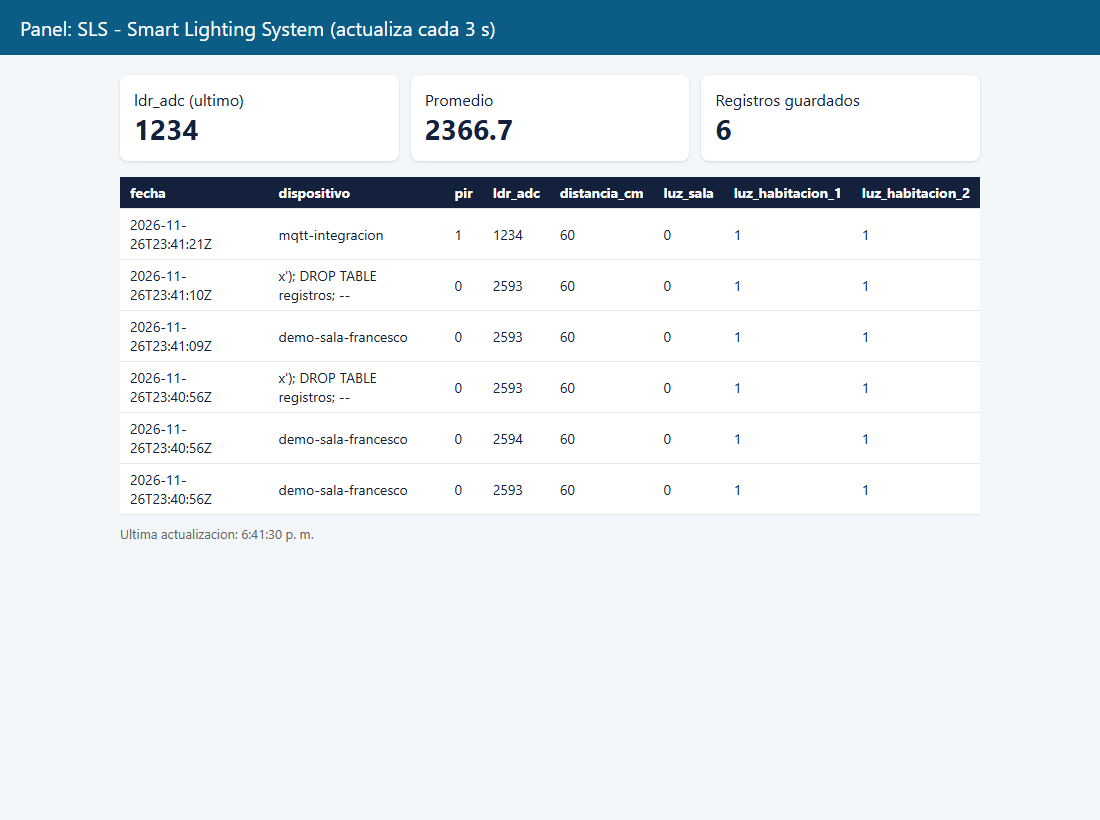
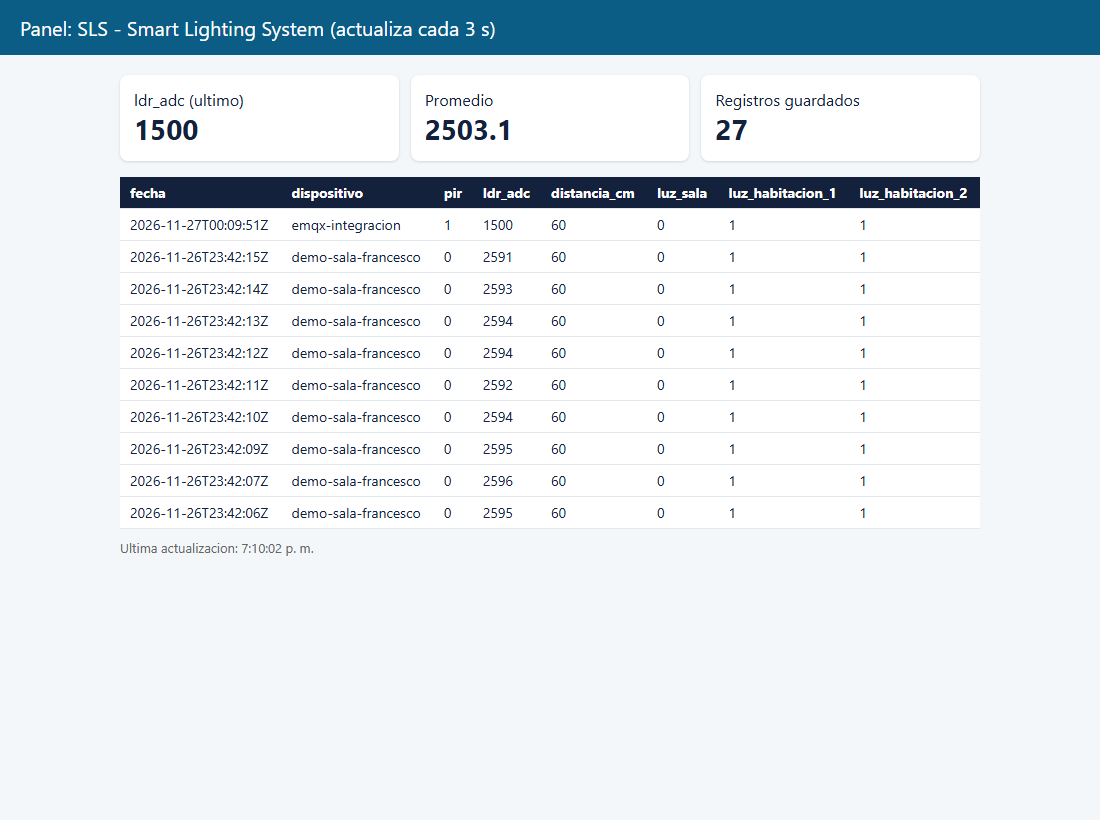
docs(informe): actualiza las pruebas MQTT con EMQX

diff --git a/lab_persistencia_api/informe_lab.md b/lab_persistencia_api/informe_lab.md
@@ -102,7 +102,15 @@ En `definicion_columna` usamos `"minimo" in c` en lugar de `c.get("minimo")` por
 
 ### 3.1 Parte D — Pruebas de persistencia
 
-Corrimos el ingestor y publicamos cada mensaje con `publicar_prueba.py`, un publicador que escribimos para reemplazar a `mosquitto_pub`. Cada mensaje de datos es el `EJEMPLO` completo y solo cambia el campo probado. Los datos van a `utp/ds8/<GRUPO>/sls-smart-lighting/telemetria` y los estados a `.../estado`. La prueba se hizo el 26-11-2026 contra un **Mosquitto local** y no contra el broker del curso (ver la sección 8).
+Corrimos el ingestor y publicamos cada mensaje con `publicar_prueba.py`, un publicador que escribimos para reemplazar a `mosquitto_pub`. Cada mensaje de datos es el `EJEMPLO` completo y solo cambia el campo probado. Los datos van a `utp/ds8/g5/sls-smart-lighting/telemetria` y los estados a `.../estado`. La prueba se hizo el 26-11-2026, a partir de las 19:08 (hora de Panamá), contra el **broker público del proyecto, `broker.emqx.io:1883`** (en internet, sin autenticación), con una base nueva (`--db parte_d_emqx.db`), y no contra el broker del curso (ver la sección 8).
+
+Primero hicimos la Parte C: el ingestor imprimió `Conectado al broker; escuchando utp/ds8/g5/sls-smart-lighting`, publicamos el `EJEMPLO` y respondió `Guardado el registro 1`. `consultas.py ultimos -n 5 --db parte_d_emqx.db` mostró:
+
+```
+fecha=2026-11-27T00:08:39Z dispositivo=demo-sala-francesco pir=0 ldr_adc=2593 distancia_cm=60.0 luz_sala=0 luz_habitacion_1=1 luz_habitacion_2=1
+```
+
+Después, en la misma base, provocamos los 9 escenarios de la guía en su orden:
 
 | # | Escenario | Cómo lo provocamos (mensaje exacto publicado) | Resultado esperado | Observado |
 |---|---|---|---|---|
@@ -118,18 +126,20 @@ Corrimos el ingestor y publicamos cada mensaje con `publicar_prueba.py`, un publ
 
 **Sobre el escenario 8:** `NaN` en `ldr_adc` se rechaza por **tipo**: `json.loads` lo convierte en un `float` y el campo es entero. Para comprobar también la regla de los números finitos publicamos, como prueba extra, `NaN` en `distancia_cm` (campo real). El ingestor respondió `Rechazado: el campo distancia_cm no es un numero finito`.
 
-Al terminar, en la base quedaron 3 registros, 2 eventos `ESTADO` y 6 `DATO_RECHAZADO`. El ingestor no se detuvo en ningún escenario.
+Al terminar, en la base quedaron 3 registros, 2 eventos `ESTADO` y 6 `DATO_RECHAZADO`. El ingestor no se detuvo en ningún escenario, y aunque el broker es público no llegó ningún mensaje ajeno a la prueba.
 
 **Consultas después de la Parte D:**
 
 ```
-consultas.py resumen   ->  total=3 minimo=2593 maximo=2593 promedio=2593.0
-consultas.py horas     ->  2026-11-26T17 promedio=2593.0 (3 registros)
-consultas.py csv --salida datos.csv  ->  Filas exportadas: 3
+consultas.py resumen --db parte_d_emqx.db  ->  total=3 minimo=2593 maximo=2593 promedio=2593.0
+consultas.py horas --db parte_d_emqx.db    ->  2026-11-27T00 promedio=2593.0 (3 registros)
+consultas.py csv --db parte_d_emqx.db --salida datos_parte_d_emqx.csv  ->  Filas exportadas: 3
 ```
 
+(Exportamos a otro archivo para no sobrescribir el `datos.csv` definitivo de la Parte I.)
+
 - **`resumen`**: el total de filas y el mínimo, máximo y promedio de `ldr_adc`. Los tres registros válidos tenían 2593, así que los tres valores coinciden.
-- **`horas`**: `hora` son los 13 primeros caracteres de la fecha UTC (`2026-11-26T17` es de 17:00 a 17:59 UTC), `promedio` es el promedio de `ldr_adc` en esa hora con un decimal y `n` es cuántos registros entraron en ella.
+- **`horas`**: `hora` son los 13 primeros caracteres de la fecha UTC (`2026-11-27T00` es de 00:00 a 00:59 UTC del 27, es decir, las 19:00 del 26 en Panamá), `promedio` es el promedio de `ldr_adc` en esa hora con un decimal y `n` es cuántos registros entraron en ella.
 - **`csv`**: exporta el encabezado `fecha,dispositivo,pir,ldr_adc,distancia_cm,luz_sala,luz_habitacion_1,luz_habitacion_2` y una fila por registro, en orden de `id`; aquí fueron 3 filas, y la de la inyección conserva el texto `x'); DROP TABLE registros; --` en la columna `dispositivo`. El `datos.csv` definitivo de la entrega es el de la Parte I: lo abrimos en una hoja de cálculo (Excel) y se ven las 8 columnas y sus 26 filas (sección 3.4).
 
 ### 3.2 Parte E — Contrato de la API
@@ -161,9 +171,9 @@ Hicimos esta prueba el 26-11-2026, entre las 18:40 y las 18:42 (hora de Panamá;
 | Base vacía | `proyecto.db` movida a un respaldo (equivale a borrarla); `GET /registros/ultimo` | 404 | `404 {"error":"no hay registros"}`. Además, `/resumen` devolvió `{"maximo":null,"minimo":null,"promedio":null,"total":0}` y `/horas` devolvió `[]`. El panel muestra «--» y 0 registros (figura 6) |
 | Inyección SQL | `POST /registros` con el `EJEMPLO` y `"dispositivo": "x'); DROP TABLE registros; --"` | 201; se guarda como texto; la tabla sigue | `201 {"id":5}`; las tablas `eventos` y `registros` siguen existiendo y `/registros/ultimo` devuelve el texto tal cual en `dispositivo` |
 | API apagada | Detuvimos `api.py` y ejecutamos `cliente.py` | Error de red; el panel muestra «Sin conexión con la API» | `1 error de red: ... [WinError 10061] No se puede establecer una conexión ya que el equipo de destino denegó expresamente dicha conexión`. El panel, que ya estaba abierto, cambió a «Sin conexion con la API» y conservó los 6 registros que mostraba. Al volver a levantar la API se recuperó solo, sin recargar |
-| Integración completa | Ingestor y API en la misma carpeta y sobre la misma `proyecto.db`; publicamos por MQTT con `publicar_prueba.py ... datos --cambiar dispositivo=mqtt-integracion --cambiar ldr_adc=1234 --cambiar pir=1` | El dato publicado por MQTT aparece en el panel | El publicador envió `{"dispositivo": "mqtt-integracion", "pir": 1, "ldr_adc": 1234, "distancia_cm": 60.0, "luz_sala": 0, "luz_habitacion_1": 1, "luz_habitacion_2": 1}`. El ingestor imprimió `Guardado el registro 6`, `GET /registros/ultimo` lo devolvió y el panel lo mostró como primera fila, con `1234` en «ldr_adc (ultimo)» (figura 7) |
+| Integración completa | Ingestor (`--grupo g5 --broker broker.emqx.io`) y API en la misma carpeta y sobre la misma `proyecto.db`; publicamos por MQTT, a través de `broker.emqx.io`, con `publicar_prueba.py --grupo g5 --broker broker.emqx.io datos --cambiar dispositivo=emqx-integracion --cambiar ldr_adc=1500 --cambiar pir=1` | El dato publicado por MQTT aparece en el panel | El publicador envió `{"dispositivo": "emqx-integracion", "pir": 1, "ldr_adc": 1500, "distancia_cm": 60.0, "luz_sala": 0, "luz_habitacion_1": 1, "luz_habitacion_2": 1}` a `utp/ds8/g5/sls-smart-lighting/telemetria`. El ingestor imprimió `Guardado el registro 27`, `GET /registros/ultimo` lo devolvió y el panel lo mostró como primera fila, con `1500` en «ldr_adc (ultimo)» y 27 registros guardados (figura 7) |
 
-En la integración, el ingestor también guardó los eventos `ESTADO online` y `ESTADO offline` que publicamos antes y después. Usamos el Mosquitto local con un grupo de prueba y sin autenticación (ver la sección 8).
+La integración la hicimos el 26-11-2026 a las 19:09 (hora de Panamá), sobre la `proyecto.db` de los escenarios anteriores, que ya tenía 26 registros. El ingestor también guardó los eventos `ESTADO online` y `ESTADO offline` que publicamos antes y después. Usamos el broker público del proyecto, `broker.emqx.io`, con el grupo `g5` y sin autenticación (ver la sección 8). Antes la habíamos hecho con un Mosquitto local y también funcionó (registro 6, `mqtt-integracion`, `ldr_adc` 1234).
 
 ### 3.4 `datos.csv` definitivo
 
@@ -188,7 +198,7 @@ fecha,dispositivo,pir,ldr_adc,distancia_cm,luz_sala,luz_habitacion_1,luz_habitac
 2026-11-26T23:41:55Z,demo-sala-francesco,0,2595,60.0,0,1,1
 ```
 
-El mínimo (1234) es el dato que llegó por MQTT en la prueba de integración; el resto ronda 2593 porque `cliente.py` parte del `EJEMPLO` y suma un paso aleatorio de ±3.
+El mínimo (1234) es el dato que llegó por MQTT en la primera prueba de integración, con el Mosquitto local; el resto ronda 2593 porque `cliente.py` parte del `EJEMPLO` y suma un paso aleatorio de ±3. Exportamos el CSV antes de repetir la integración con `broker.emqx.io`, así que el registro 27 (`emqx-integracion`) está en `proyecto.db` pero no en `datos.csv`.
 
 ---
 
@@ -246,7 +256,7 @@ Hicimos esta parte el 25-11-2026 con la API en `127.0.0.1:5000` y la base vacía
 *Figura 6. Panel en `http://127.0.0.1:5000/` con la base vacía (Parte I, escenario «Base vacía»).*
 
 ![Integración MQTT, ingestor, API y panel](capturas/i10_integracion.png)
-*Figura 7. Panel en `http://127.0.0.1:5000/` con el registro 6 (`mqtt-integracion`, `ldr_adc` 1234), que llegó por MQTT a través del ingestor (Parte I, escenario «Integración completa»).*
+*Figura 7. Panel en `http://127.0.0.1:5000/` con el registro 27 (`emqx-integracion`, `ldr_adc` 1500), que llegó por MQTT a través de `broker.emqx.io` y del ingestor (Parte I, escenario «Integración completa»).*
 
 ---
 
@@ -387,7 +397,7 @@ En nuestro `api.py` ya aplicamos dos medidas: la clave se compara en tiempo cons
 
 ## 8. Limitaciones y dificultades
 
-- **Broker del curso:** solo es accesible desde la red interna de la UTP, y la red Wi-Fi de estudiantes bloquea MQTT hacia internet (comprobamos que los puertos 1883, 8883 y 8083 estaban cerrados también hacia `broker.emqx.io`; solo pasa el 443). Por eso las Partes C, D e I (integración) se probaron con un **Mosquitto local** en `127.0.0.1:1883`, con un grupo de prueba (`<GRUPO>` en la Parte D y `g-local` en la Parte I) y **sin autenticación**. El código no cambia, porque el broker, el usuario y la clave son argumentos (`--broker`, `--usuario`, `--clave`). Lo que queda sin probar es la autenticación con el usuario y la clave del grupo.
+- **Broker del curso:** solo es accesible dentro de la red de la UTP. Por eso, en las Partes C, D e I (integración) usamos el **broker público del proyecto, `broker.emqx.io:1883`**, con el grupo `g5` y **sin autenticación**. El código no cambia, porque el broker, el usuario y la clave son argumentos (`--broker`, `--usuario`, `--clave`). Lo que queda sin probar es la autenticación con el usuario y la clave del grupo.
 - **Wi-Fi lento en Wokwi:** con la espera original de 10 s, la red `Wokwi-GUEST` a veces no llegaba a conectar. Ampliamos la espera de `red.py` a 30 s (`range(60)`, 60 vueltas de 0,5 s). Aun así, en un intento tardó más: el dispositivo imprimió `Sin Wi-Fi: reinicia la simulacion` y se detuvo, como está programado en el código base. Al reiniciar la simulación conectó normalmente.
 - **Las luces de la casa no se encienden en la Parte H:** `main_wokwi.py` solo calcula el estado de `luz_sala`, `luz_habitacion_1` y `luz_habitacion_2` y lo envía; no maneja el registro 74HC595 como el firmware completo. Por eso en Wokwi solo cambia el LED de envío (GPIO5), aunque el JSON diga que una luz está encendida.
 - **httpbin.org** no es nuestra API: es un servicio público que devuelve el eco. Wokwi no puede llegar a `localhost`, así que nuestra API se probó con `cliente.py`, `verificar_api.py` y el navegador.
